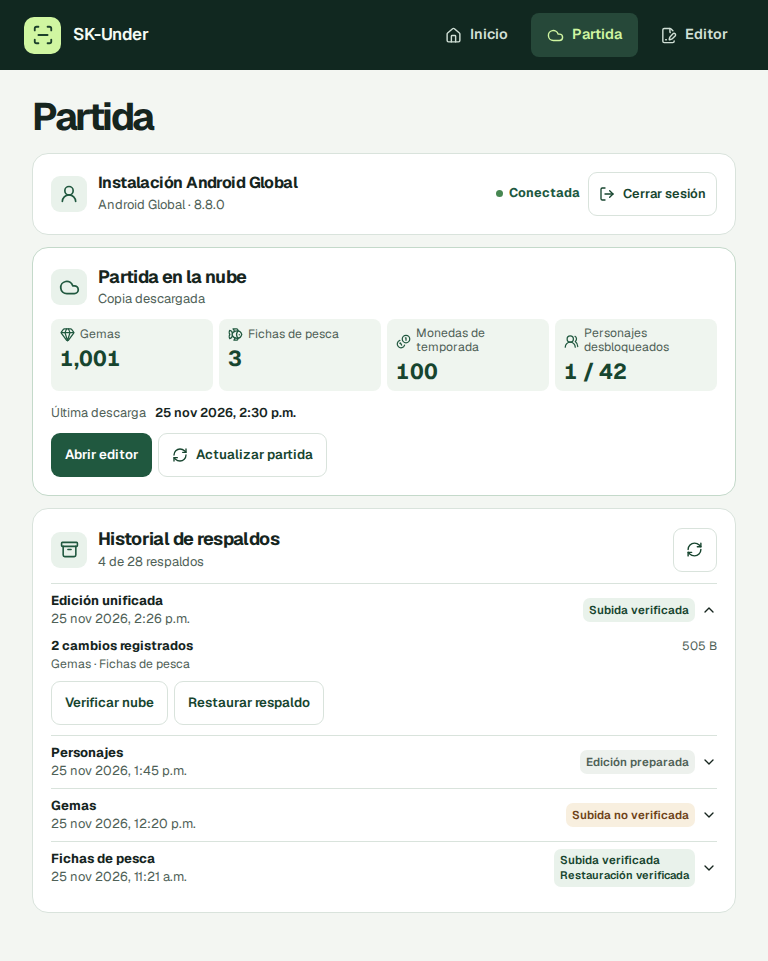
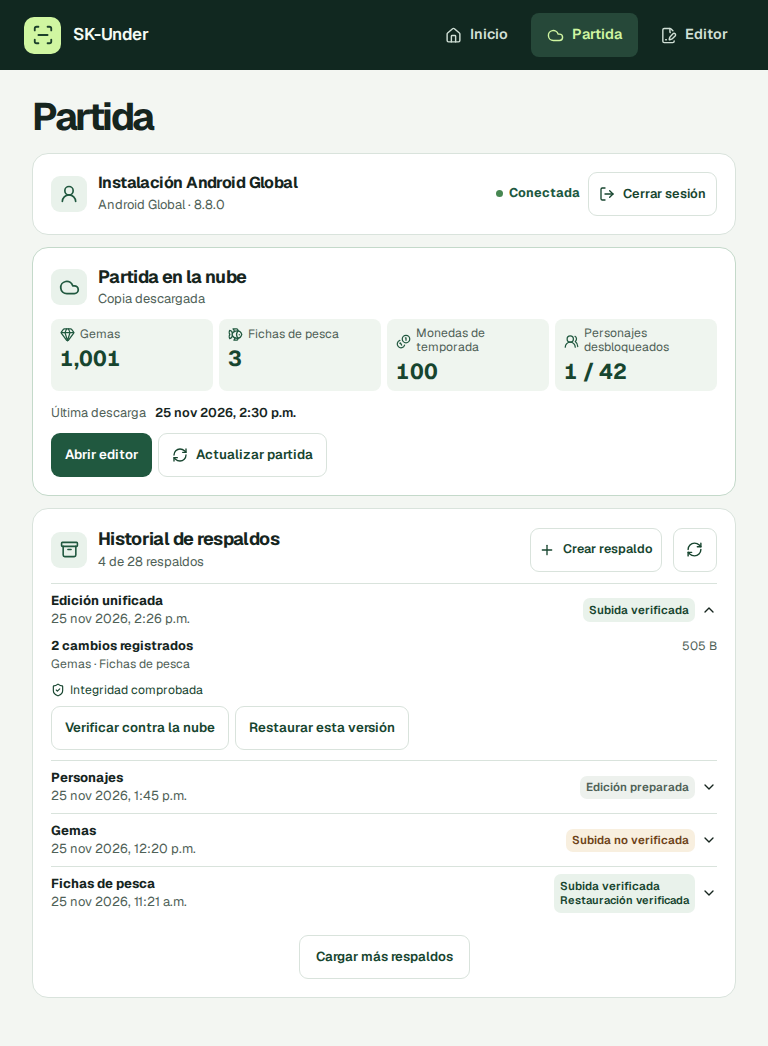
docs(partida): registra despliegue y capturas del historial

diff --git a/docs/partida/README.md b/docs/partida/README.md
@@ -111,7 +111,7 @@ PY
 - Backend local con dependencias bloqueadas. 675 pruebas aprobadas, 16 omitidas. Compilación y verificación del catálogo correctas.
 - TypeScript y compilación de Vite correctos. Playwright Chromium con 63 pruebas aprobadas y 23 omitidas. Los tamaños 320, 360, 375, 390 y 430 px mantuvieron el historial sin desplazamiento horizontal, también con el botón de paginación. Tableta y escritorio pasaron la comprobación de ancho.
 - Docker aislado sin red. La imagen rechazó la ruta efímera sin volumen. En contenedores sucesivos con el mismo montaje se conservaron el perfil nativo y los bytes exactos de los respaldos cifrados. Las pruebas de almacén cubren respaldo manual, preventivo, restauración histórica, deshacer, paginación con inserción intermedia, interrupción y ausencia de montaje.
-- Producción. Actualizada al commit de esta fase con los volúmenes `native` y `native-backups`; la comprobación posterior figura en el informe de entrega. El commit se publica sin `[skip cd]` para que Coolify recree el contenedor.
+- Producción. Publicado `eb9cacf8747409e1e045e6a296e4eebd386ef4d0` sin `[skip cd]`. Coolify desplegó un contenedor saludable con los cuatro montajes (`accounts`, `backups`, `native`, `native-backups`); `/api/v1/version` devuelve ese commit y las seis capacidades; `/backups` sin sesión responde 401. Una recreación real con `docker compose … up -d --force-recreate` conservó la integridad del SQLite y los conteos (2 cuentas, 2 perfiles, 1 sesión, 3 eventos), y el sondeo de escritura/borrado en `native-backups` confirmó permisos `10001:10001` y `0700`. Cloudflare Pages sirve la compilación con el historial nuevo. El estado nativo anterior (un SQLite, cero respaldos nativos) se preservó y migró; no se encontraron respaldos nativos históricos recuperables.
 
 ## Capturas
 
